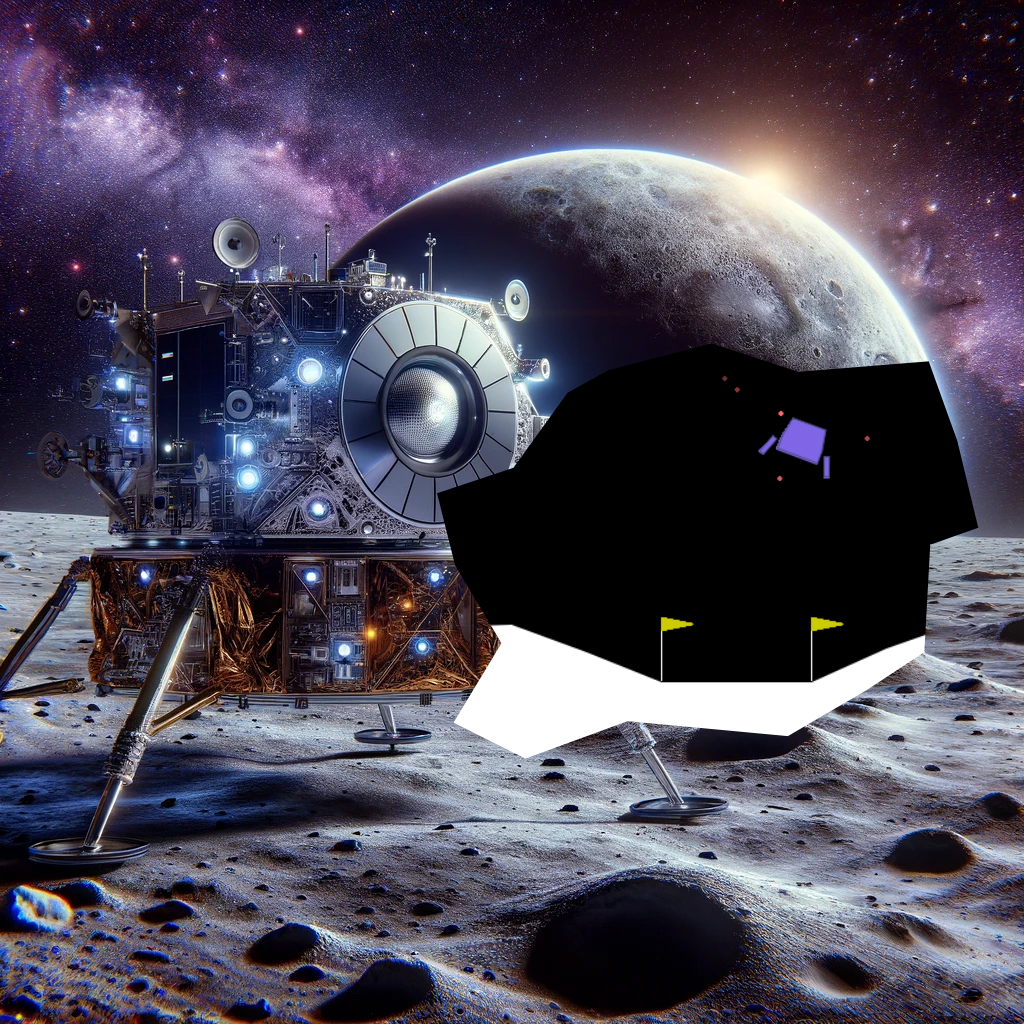
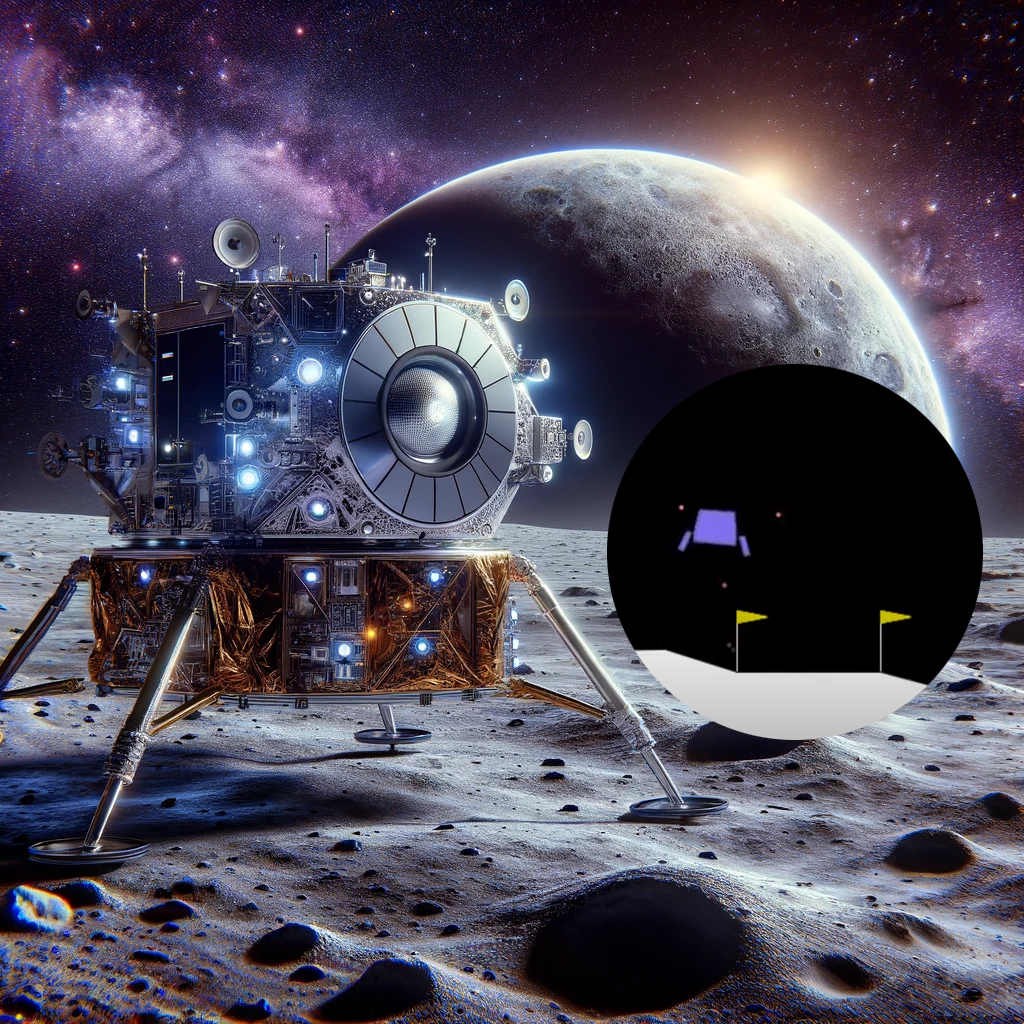
Update the cover image

diff --git a/_projects/2024-02-26-lunar-lander.md b/_projects/2024-02-26-lunar-lander.md
@@ -1,20 +1,14 @@
 ---
 title: 'Lunar Lander'
-subtitle: 'Beggining a Journey into Reinforcement Learning'
-date: 2018-06-30 00:00:00
-description: Board is a stylish full-width masonry grid theme. Made for designers, artists, photographers and developers to show off their best work.
+subtitle: 'Beginning a Journey into Reinforcement Learning'
 featured_image: 'project_data/2024-02-26-lunar-lander/cover.jpg'
 ---
 
-![](/images/demo/landscape-01.jpg)
+## Overview
 
-## Demo content
+Reinforcement learning has emerged as the primary framework for addressing challenges in Embodied Intelligence. According to Cangelosi et al., *"Embodied Intelligence involves understanding intelligent behavior in agents situated within their environments, considering the tight coupling between the agent and its surroundings mediated by its body, perceptual and motor system, and brain."*
 
-This page is a demo that shows everything you can do inside portfolio and blog posts.
-
-We've included everything you need to create engaging posts about your work, and show off your case studies in a beautiful way.
-
-**Obviously,** we’ve styled up *all the basic* text formatting options [available in markdown](https://github.com/adam-p/markdown-here/wiki/Markdown-Cheatsheet).
+The following project will start a series of entries to document my progress in the field of reinforcement learning as I master essential skills within the discipline.
 
 You can create lists:
 
